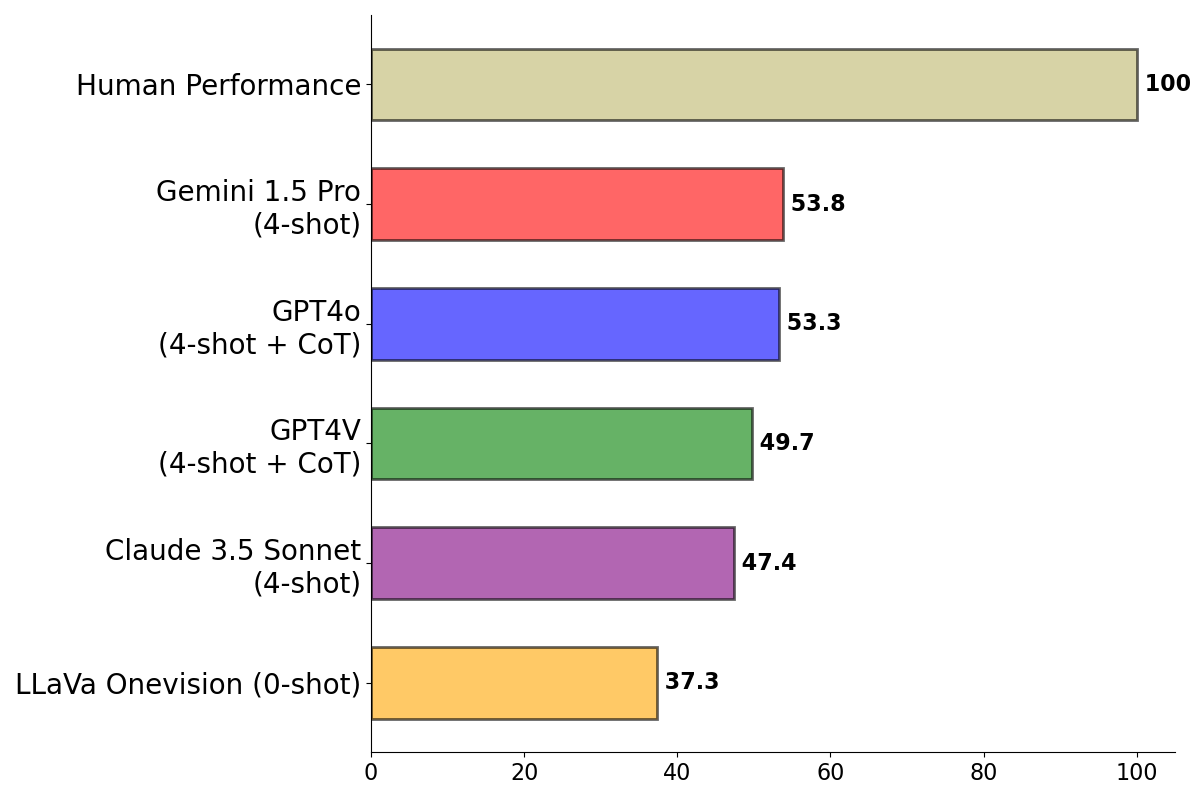
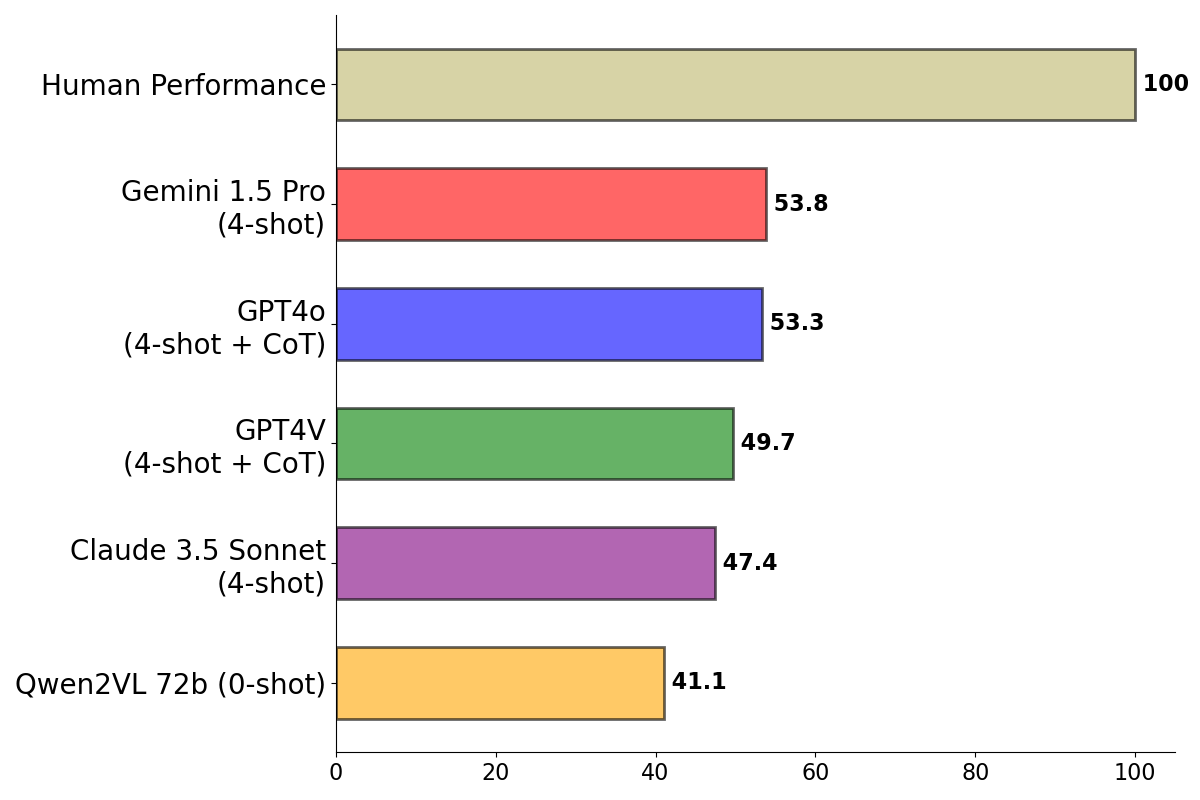
added qwen2vl 72b results

diff --git a/index.html b/index.html
@@ -703,8 +703,35 @@
 									<td>57.89</td>
 								</tr>
 
-								<tr>
+                <tr></tr>
 									<td>12</td>
+									<td><b>Qwen2-VL 72b (0-shot)</b></td>
+									<td>
+										<a
+											href="https://github.com/csebuetnlp/IllusionVQA/blob/main/result_jsons/qwen2vl_72b_comprehension_0shot.json"
+											class="ext-link"
+											style="font-size: 16px"
+											>Link</a
+										>
+									</td>
+									<td>2024-09-22</td>
+									<td><b>52.64</b></td>
+									<td>54.48</td>
+									<td>59.38</td>
+									<td>50.00</td>
+									<td>37.78</td>
+									<td>67.57</td>
+									<td>65.39</td>
+									<td>52.17</td>
+									<td>42.86</td>
+									<td>28.57</td>
+									<td>42.86</td>
+									<td>16.67</td>
+									<td>47.37</td>
+								</tr>
+
+								<tr>
+									<td>13</td>
 									<td><b>Gemini-1-Pro (0-shot)</b></td>
 									<td>
 										<a
@@ -731,7 +758,7 @@
 								</tr>
 
                 <tr></tr>
-									<td>13</td>
+									<td>14</td>
 									<td><b>LlaVa Onevision Qwen2 7b (0-shot)</b></td>
 									<td>
 										<a
@@ -758,7 +785,7 @@
 								</tr>
 
 								<tr>
-									<td>14</td>
+									<td>15</td>
 									<td><b>InternVL2 (0-shot)</b></td>
 									<td>
 										<a
@@ -785,7 +812,7 @@
 								</tr>
 
 								<tr>
-									<td>15</td>
+									<td>16</td>
 									<td><b>Phi 3.5 Vision (0-shot)</b></td>
 									<td>
 										<a
@@ -812,7 +839,7 @@
 								</tr>
 
 								<tr>
-									<td>16</td>
+									<td>17</td>
 									<td><b>LLaVa (0-shot)</b></td>
 									<td>
 										<a
@@ -838,8 +865,35 @@
 									<td>42.11</td>
 								</tr>
 
+                <tr></tr>
+									<td>18</td>
+									<td><b>Qwen2-VL 72b (4-shot)</b></td>
+									<td>
+										<a
+											href="https://github.com/csebuetnlp/IllusionVQA/blob/main/result_jsons/qwen2vl_72b_comprehension_4shot.json"
+											class="ext-link"
+											style="font-size: 16px"
+											>Link</a
+										>
+									</td>
+									<td>2024-09-23</td>
+									<td><b>39.77</b></td>
+									<td>46.27</td>
+									<td>42.19</td>
+									<td>34.78</td>
+									<td>15.56</td>
+									<td>51.35</td>
+									<td>34.62</td>
+									<td>30.44</td>
+									<td>38.10</td>
+									<td>85.72</td>
+									<td>28.57</td>
+									<td>50.00</td>
+									<td>36.84</td>
+								</tr>
+
 								<tr>
-									<td>17</td>
+									<td>18</td>
 									<td><b>Cog (0-shot)</b></td>
 									<td>
 										<a
@@ -866,7 +920,7 @@
 								</tr>
 
 								<tr>
-									<td>18</td>
+									<td>19</td>
 									<td><b>Phi 3.5 Vision (4-shot)</b></td>
 									<td>
 										<a
@@ -893,7 +947,7 @@
 								</tr>
 
 								<tr>
-									<td>19</td>
+									<td>20</td>
 									<td><b>I-BLIP (0-shot)</b></td>
 									<td>
 										<a
@@ -920,7 +974,7 @@
 								</tr>
 
 								<tr>
-									<td>20</td>
+									<td>21</td>
 									<td><b>Pali Gemma (0-shot)</b></td>
 									<td>
 										<a href="#" class="ext-link" style="font-size: 16px"
@@ -1220,8 +1274,23 @@
 									<td><b>41.8</b></td>
 								</tr>
 
-								<tr>
+                <tr></tr>
 									<td>16</td>
+									<td><b>Qwen2-VL 72b (0-shot)</b></td>
+									<td>
+										<a
+											href="https://github.com/csebuetnlp/IllusionVQA/blob/main/result_jsons/qwen2vl_72b_sofloc_0shot.json"
+											class="ext-link"
+											style="font-size: 16px"
+											>Link</a
+										>
+									</td>
+									<td>2024-09-23</td>
+									<td><b>41.1</b></td>
+								</tr>
+
+								<tr>
+									<td>17</td>
 									<td><b>GPT4V (0-shot)</b></td>
 									<td>
 										<a
@@ -1236,7 +1305,7 @@
 								</tr>
 
 								<tr>
-									<td>17</td>
+									<td>18</td>
 									<td><b>Claude 3.5 Sonnet (4-shot + CoT)</b></td>
 									<td>
 										<a
@@ -1251,7 +1320,7 @@
 								</tr>
 
                 <tr></tr>
-									<td>18</td>
+									<td>19</td>
 									<td><b>LlaVa Onevision Qwen2 7b (0-shot)</b></td>
 									<td>
 										<a
@@ -1266,7 +1335,7 @@
 								</tr>
 
 								<tr>
-									<td>19</td>
+									<td>20</td>
 									<td><b>Gemini 1.0 Pro (4-shot + CoT)</b></td>
 									<td>
 										<a
@@ -1281,7 +1350,7 @@
 								</tr>
 
 								<tr>
-									<td>20</td>
+									<td>21</td>
 									<td><b>InternVL2 (0-shot)</b></td>
 									<td>
 										<a href="#" class="ext-link" style="font-size: 16px"
@@ -1293,7 +1362,7 @@
 								</tr>
 
 								<tr>
-									<td>21</td>
+									<td>22</td>
 									<td><b>CogVLM (0-shot)</b></td>
 									<td>
 										<a
@@ -1308,7 +1377,7 @@
 								</tr>
 
 								<tr>
-									<td>22</td>
+									<td>23</td>
 									<td><b>Phi 3.5 Vision (4-shot + CoT)</b></td>
 									<td>
 										<a href="#" class="ext-link" style="font-size: 16px"
@@ -1319,8 +1388,20 @@
 									<td><b>27.0</b></td>
 								</tr>
 
+                <tr></tr>
+									<td>24</td>
+									<td><b>Qwen2-VL 72b (4-shot)</b></td>
+									<td>
+										<a href="https://github.com/csebuetnlp/IllusionVQA/blob/main/result_jsons/qwen2vl_72b_sofloc_4shot.json" class="ext-link" style="font-size: 16px"
+											>Link</a
+										>
+									</td>
+									<td>2024-09-23</td>
+									<td><b>25.4</b></td>
+								</tr>
+
 								<tr>
-									<td>23</td>
+									<td>24</td>
 									<td><b>Phi 3.5 Vision (4-shot)</b></td>
 									<td>
 										<a href="#" class="ext-link" style="font-size: 16px"
@@ -1332,7 +1413,7 @@
 								</tr>
 
 								<tr>
-									<td>24</td>
+									<td>25</td>
 									<td><b>Phi 3.5 Vision (0-shot)</b></td>
 									<td>
 										<a href="#" class="ext-link" style="font-size: 16px"
@@ -1344,7 +1425,7 @@
 								</tr>
 
 								<tr>
-									<td>25</td>
+									<td>26</td>
 									<td><b>LLaVA-1.5 (0-shot)</b></td>
 									<td>
 										<a
@@ -1359,7 +1440,7 @@
 								</tr>
 
 								<tr>
-									<td>26</td>
+									<td>27</td>
 									<td><b>InstructBLIP (0-shot)</b></td>
 									<td>
 										<a
